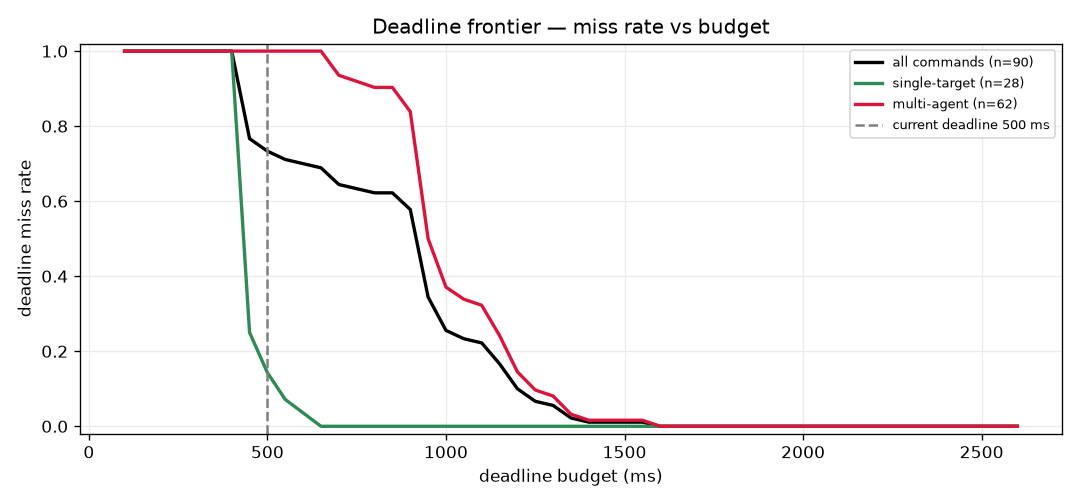
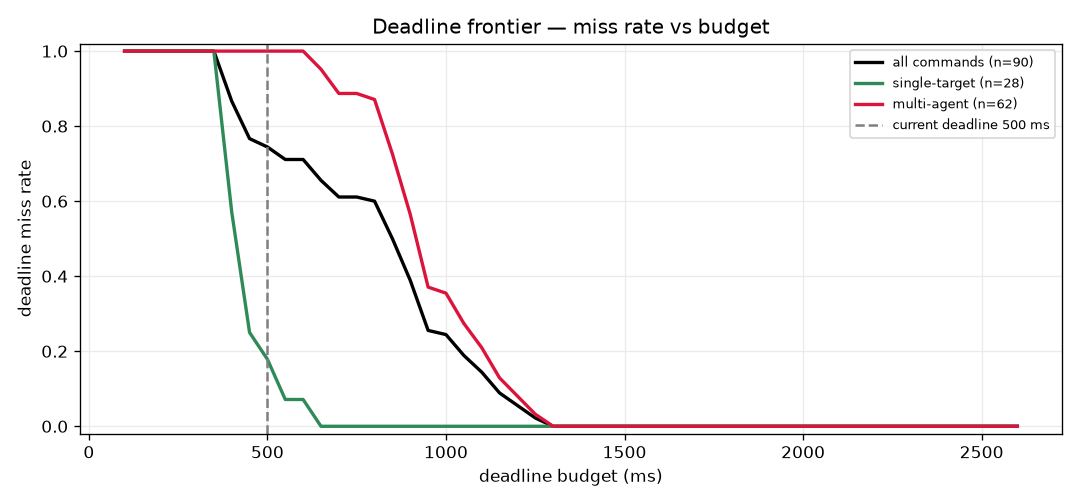
Add StarCraft II decision-latency section to the report
viz.plot_sc2_latency (histogram + deadline frontier) + an SC2 section in
build_report.py loading outputs/sc2_2s3z_4B.jsonl. First SC2 numbers on the live
report: 30 decisions, p50 ~4.5s latency, ~3200 input tokens, miss@2s=1.00,
~8s budget for <10% miss. The arena's efficiency story (terse schema, 4B sweet
spot) now sits alongside the SC2 wall it motivates.

Changed region(s): [[0.1833, 0.0893, 0.6111, 0.8631], [0.2444, 0.7143, 0.3056, 0.8333]]

diff --git a/arena/viz.py b/arena/viz.py
@@ -197,6 +197,42 @@ def plot_schema_frontiers(results: list[dict], tick_ms: int,
     return out_path
 
 
+def plot_sc2_latency(rows: list[dict], out_path: str | Path) -> Path:
+    """SC2 decision latency: histogram + deadline frontier, from metric rows
+    ({latency_ms, tokens_in, tokens_out, ...} per LLM decision)."""
+    out_path = Path(out_path)
+    lat = [r["latency_ms"] for r in rows]
+    deadlines = list(range(250, 10001, 250))
+    fig, (ax1, ax2) = plt.subplots(1, 2, figsize=(11, 4.2))
+
+    ax1.hist(lat, bins=20, color="indianred", edgecolor="white")
+    ax1.axvline(statistics.median(lat), color="black", ls=":", lw=1,
+                label=f"p50 {statistics.median(lat):.0f} ms")
+    for d, lab in ((500, "0.5 s"), (2000, "2 s")):
+        ax1.axvline(d, color="gray", ls="--", lw=1)
+        ax1.text(d, ax1.get_ylim()[1] * 0.9, f" {lab}", fontsize=8, rotation=90, va="top")
+    ax1.set_xlabel("decision latency (ms)")
+    ax1.set_ylabel("decisions")
+    ax1.set_title("SC2 decision latency")
+    ax1.legend(fontsize=8)
+
+    ax2.plot(deadlines, [miss_rate(lat, d) for d in deadlines], color="crimson", lw=2)
+    ax2.axvline(2000, color="gray", ls="--", lw=1, label="2 s")
+    ax2.set_xlabel("deadline budget (ms)")
+    ax2.set_ylabel("deadline miss rate")
+    ax2.set_ylim(-0.02, 1.02)
+    ax2.set_title("SC2 deadline frontier")
+    ax2.grid(True, color="0.92")
+    ax2.legend(fontsize=8)
+
+    ti = statistics.mean(r["tokens_in"] for r in rows)
+    fig.suptitle(f"StarCraft II — {len(rows)} decisions, ~{ti:.0f} input tokens each")
+    fig.tight_layout()
+    fig.savefig(out_path, dpi=120)
+    plt.close(fig)
+    return out_path
+
+
 def frame_data_uris(frames: list[Frame], grid: int, max_frames: int = 200) -> list[str]:
     """Render each frame to a small PNG and return base64 data: URIs."""
     fig, ax = plt.subplots(figsize=(4.2, 4.6))

diff --git a/scripts/build_report.py b/scripts/build_report.py
@@ -133,6 +133,39 @@ def main() -> None:
             "accuracy here. The frontier is hardware-dependent.",
         })
 
+    # --- StarCraft II testbed (if metrics exist) ---
+    sc2_path = outdir / "sc2_2s3z_4B.jsonl"
+    if sc2_path.exists():
+        sc2_rows = [json.loads(l) for l in open(sc2_path) if l.strip()]
+        if sc2_rows:
+            sc2_png = viz.plot_sc2_latency(sc2_rows, outdir / "sc2_latency.png")
+            lat = [r["latency_ms"] for r in sc2_rows]
+            budget10 = next((d for d in range(250, 20001, 250)
+                             if miss_rate(lat, d) <= 0.10), ">20000")
+            sc2_table = (
+                "<table>\n<tr><th>decisions</th><th>p50 latency</th>"
+                "<th>input tokens (mean)</th><th>output tokens (mean)</th>"
+                "<th>miss@2s</th><th>budget for &lt;10% miss</th></tr>\n"
+                f"<tr><td>{len(sc2_rows)}</td><td>{_median(lat):.0f} ms</td>"
+                f"<td>{statistics.mean(r['tokens_in'] for r in sc2_rows):.0f}</td>"
+                f"<td>{statistics.mean(r['tokens_out'] for r in sc2_rows):.0f}</td>"
+                f"<td>{miss_rate(lat, 2000):.2f}</td><td>{budget10} ms</td></tr></table>")
+            sections.append({
+                "title": "StarCraft II testbed — first decision-latency numbers",
+                "png": sc2_png, "table": sc2_table,
+                "intro": "<p>The same streaming-command core, scaled up to StarCraft II "
+                "(LLM-PySC2, headless, our own vLLM). Each decision now carries the full "
+                "game state plus unit/ability wiki — <b>~3000+ input tokens</b> vs ~200 in "
+                "the arena — so a single decision takes <b>seconds</b>, not milliseconds. "
+                "This is the efficiency wall the program exists to attack.</p>",
+                "caption": "First real SC2 numbers (Qwen3-4B-AWQ, 2s3z). The model needs "
+                "an ~8 s budget to land most decisions on time; at any real-time deadline "
+                "(≤2 s) it misses every one. Win-rate is not yet meaningful here "
+                "(camera calibration is capped to reach the LLM, so unit centering is "
+                "imperfect) and the clock is synchronous (the game waits for the model) — "
+                "both are next on the list. Latency and token counts are valid measurements.",
+            })
+
     # --- body from the json baseline run ---
     rep = base_m.report()
     png = viz.plot_metrics(rep, base_m.latencies_ms, base_rec.frames,
@@ -155,6 +188,8 @@ def main() -> None:
                   (s_overlay, "assets/schema_frontier.png")]
         if mresults:
             copies.append((outdir / "model_frontier.png", "assets/model_frontier.png"))
+        if (outdir / "sc2_latency.png").exists():
+            copies.append((outdir / "sc2_latency.png", "assets/sc2_latency.png"))
         for src, dst in copies:
             (repo / dst).write_bytes(Path(src).read_bytes())
         subprocess.run(["bash", "scripts/publish_report.sh"], cwd=repo, check=True)